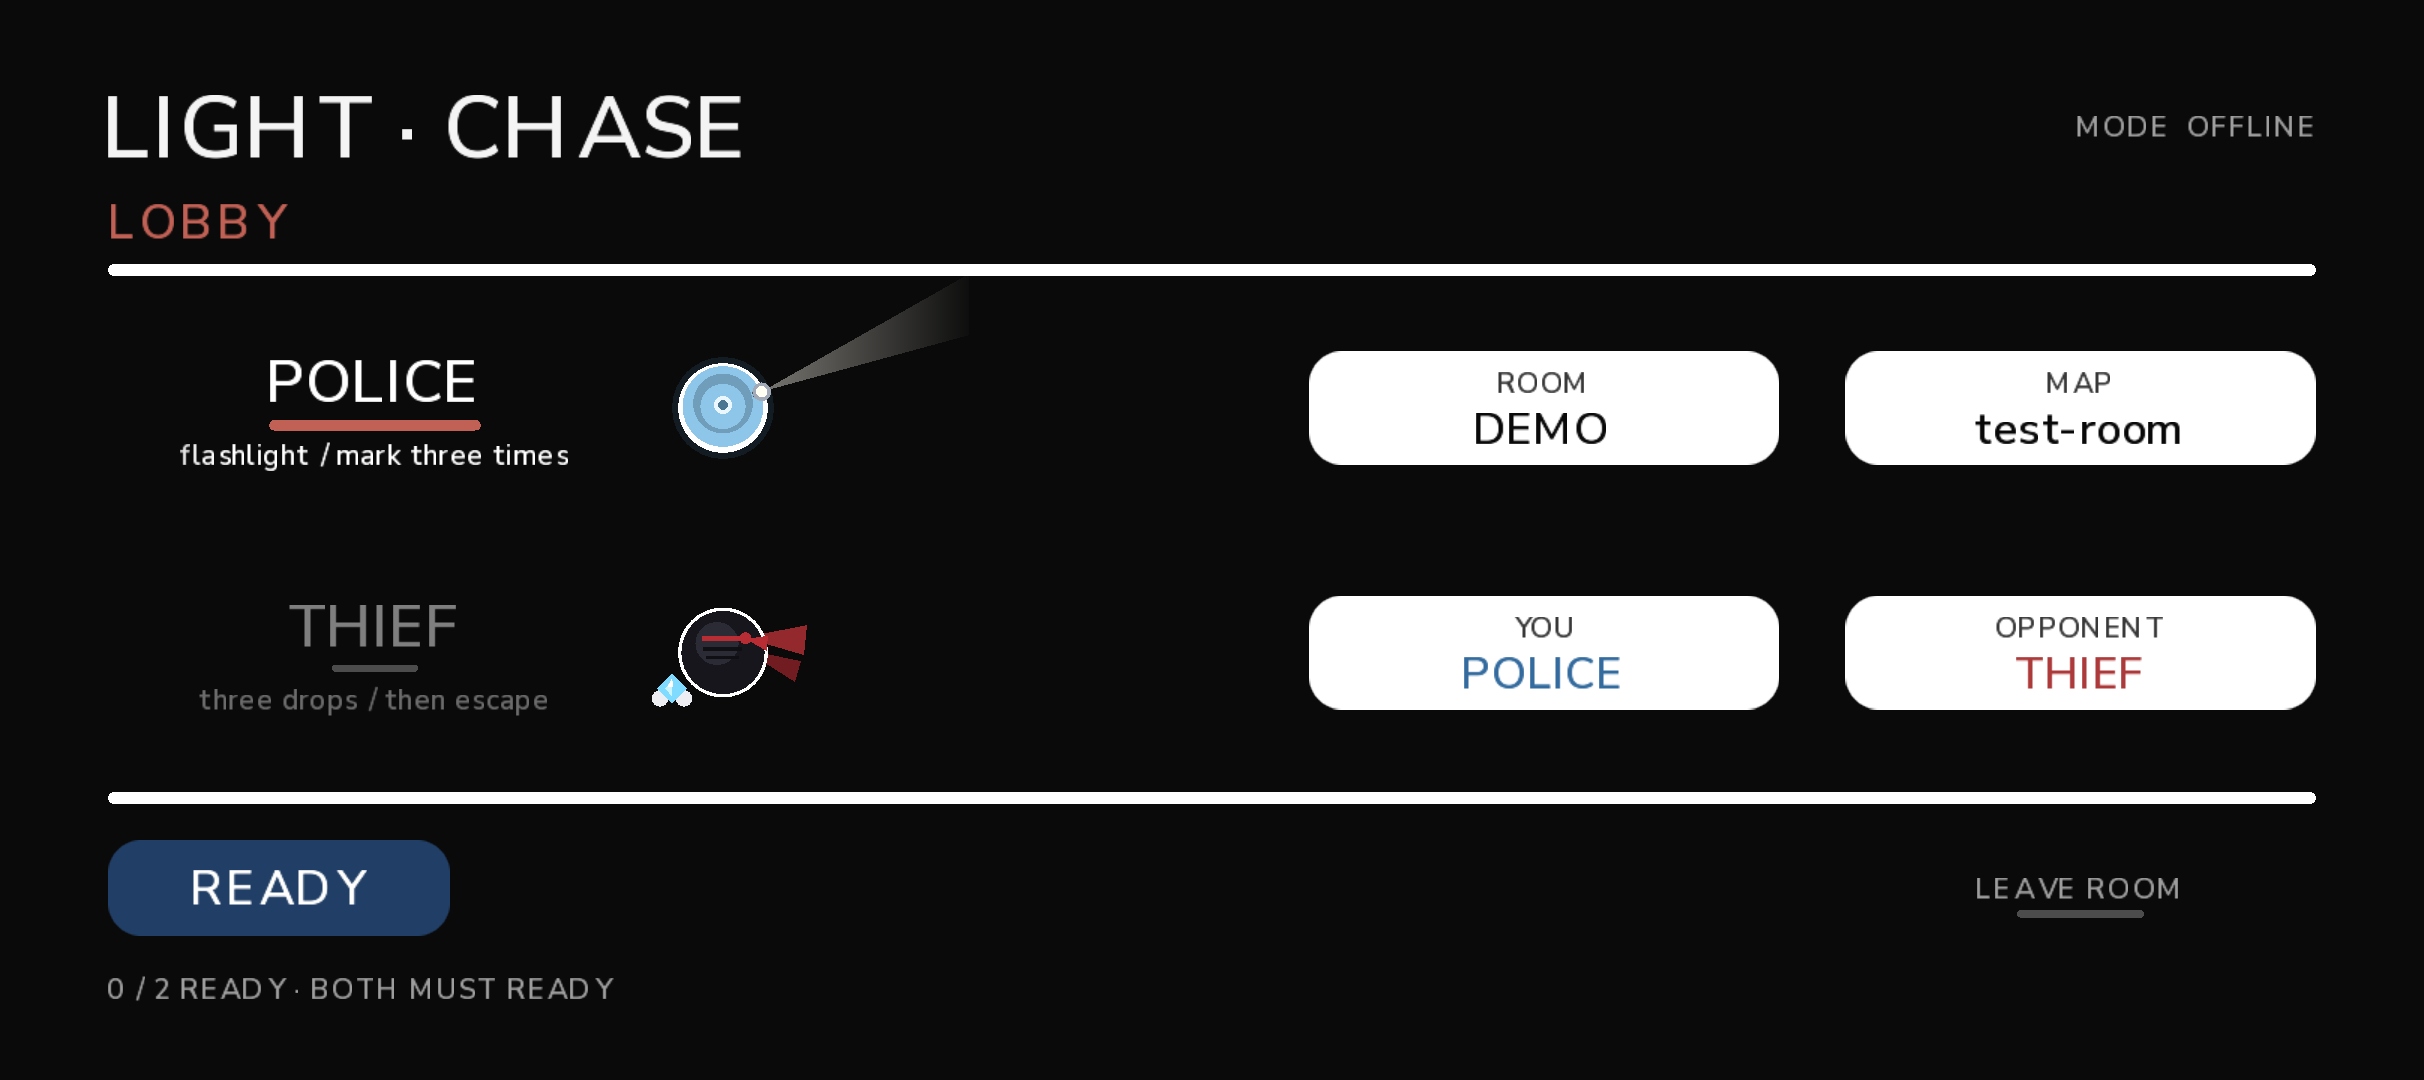
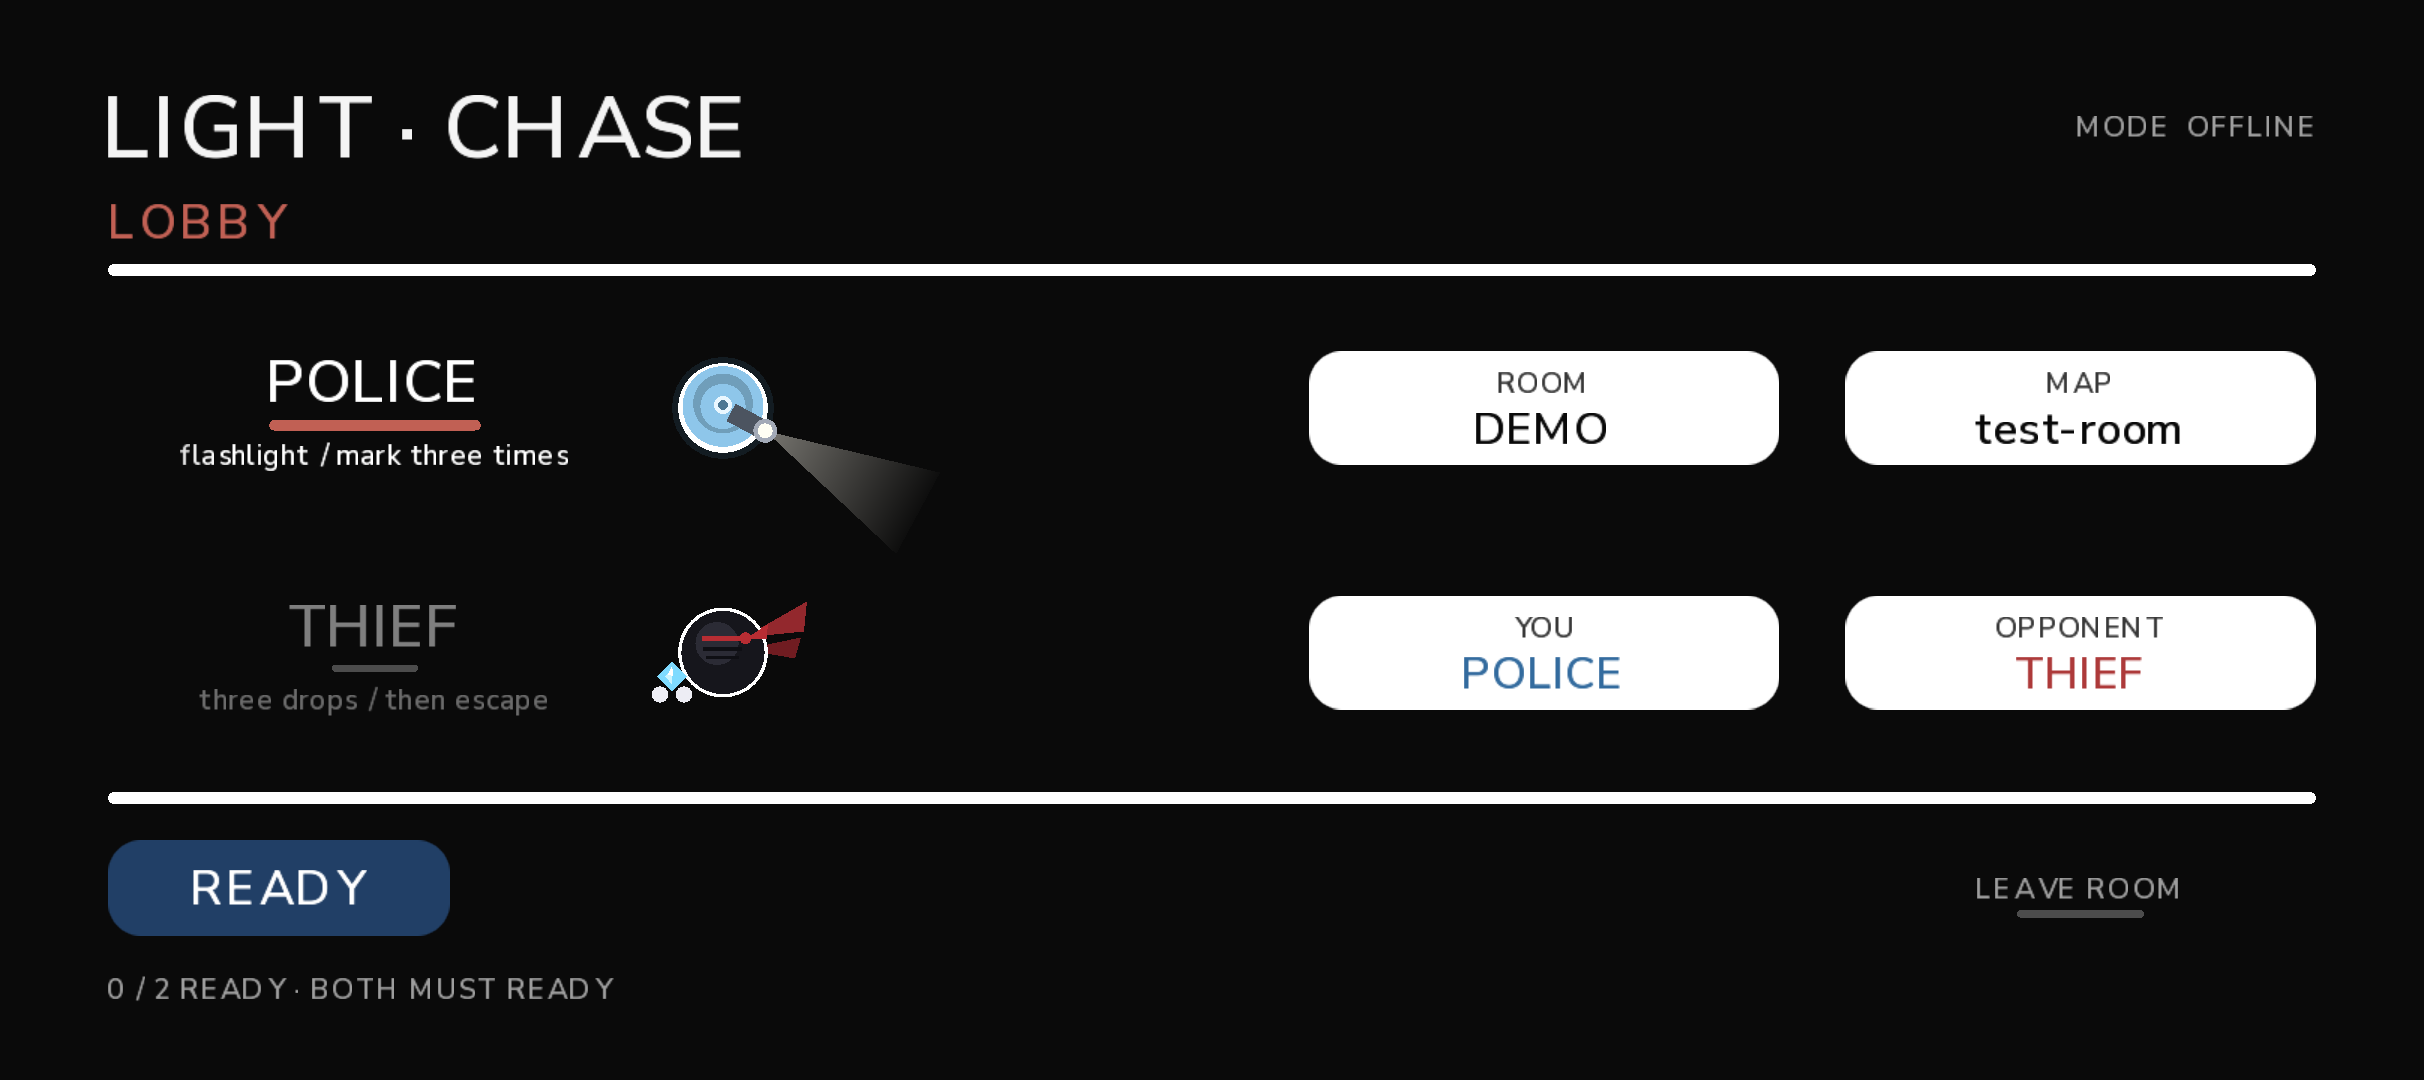
ui: selected police reuses the previous default torch drawing

diff --git a/client-core/src/main/java/com/lightchase/client/LightChaseApp.java b/client-core/src/main/java/com/lightchase/client/LightChaseApp.java
@@ -1354,24 +1354,31 @@ public final class LightChaseApp extends ApplicationAdapter {
      * beam is strongest at the lens.
      */
     private void lobbyPoliceIcon(ShapeRenderer shapes, float cx, float cy) {
-        // Two resting poses. Not chosen: the head is turned towards the role name, sweeping gently
-        // around it, lamp off. Chosen: it turns away first and only then switches the lamp on.
+        // Not chosen: the head is turned towards the role name and the lamp is off. Chosen: it
+        // turns away first, then the torch comes on with exactly the drawing the idle state used
+        // to have - a wide, gentle sway and a short soft cone.
         float facing = UiAnim.smooth(turn);
-        float base = UiAnim.lerp((float) Math.PI, 0.12f, facing);
-        float sway = UiAnim.sway(lobbyClock, 0.75f) * (0.16f + 0.12f * facing);
-        float angle = base + sway;
+        float base = UiAnim.lerp((float) Math.PI, 0f, facing);
+        float wander = UiAnim.sway(lobbyClock, 0.9f) * 0.55f * facing;
+        float angle = base + wander;
 
         float c = (float) Math.cos(angle);
         float s = (float) Math.sin(angle);
-        float lx = cx + c * (ICON_R - 2f);
-        float ly = cy + s * (ICON_R - 2f);
+        float lx = cx + c * (ICON_R + 2f);
+        float ly = cy + s * (ICON_R + 2f);
 
+        // The idle cone, unchanged: 120 long, 45% at the lens, gone at the far end.
         if (beamOn > 0.01f) {
-            beamToText(shapes, lx, ly, angle, beamOn);
+            float reach = 120f * beamOn;
+            float near = 0.45f * beamOn;
+            gradTri(shapes, lx, ly, near,
+                    lx + (float) Math.cos(angle - 0.26f) * reach,
+                    ly + (float) Math.sin(angle - 0.26f) * reach, 0.02f * beamOn,
+                    lx + (float) Math.cos(angle + 0.26f) * reach,
+                    ly + (float) Math.sin(angle + 0.26f) * reach, 0.02f * beamOn);
         }
 
-        // Same construction as the thief: a soft halo, a solid white disc, then the body on top.
-        // The rim is whatever the body does not cover, so it hugs it with no gap.
+        // Rim: a solid white disc with the cap on top, so it hugs it with no gap.
         shapes.setColor(CAP_DARK.r, CAP_DARK.g, CAP_DARK.b, 0.20f);
         shapes.circle(cx, cy, ICON_R + 4f, 32);
         shapes.setColor(1f, 1f, 1f, 1f);
@@ -1379,17 +1386,16 @@ public final class LightChaseApp extends ApplicationAdapter {
 
         policeCap(shapes, cx, cy, angle);
 
-        // The lamp is a smooth bump, not a barrel: a rounded neck and one lens, drawn after the rim
-        // so it simply overlaps it the way the thief's scarf overlaps its hood.
-        float nx = cx + c * (ICON_R - 5f);
-        float ny = cy + s * (ICON_R - 5f);
+        // The old lamp: short barrel, one lens, one hot centre - drawn after the rim so it overlaps
+        // it, the way the thief's scarf overlaps its hood.
+        float bx = cx + c * 6f;
+        float by = cy + s * 6f;
         shapes.setColor(0.30f, 0.33f, 0.38f, 1f);
-        shapes.rectLine(nx, ny, lx, ly, 7f);
-        shapes.circle(nx, ny, 3.5f, 16);
+        shapes.rectLine(bx, by, lx, ly, 13f);
         shapes.setColor(0.64f, 0.67f, 0.72f, 1f);
-        shapes.circle(lx, ly, 6.2f, 20);
-        shapes.setColor(1f, 1f, 0.96f, 0.18f + 0.82f * beamOn);
-        shapes.circle(lx, ly, 3.8f, 16);
+        shapes.circle(lx, ly, 8f, 18);
+        shapes.setColor(1f, 1f, 0.96f, 0.20f + 0.80f * beamOn);
+        shapes.circle(lx, ly, 5f, 16);
     }
 
     /** The beam: bright at the lens, fading out along its length, tapering to a soft end. */
